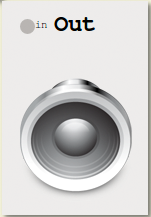
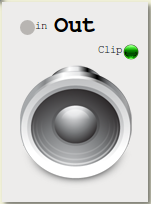
Changed the oscilloscope and speaker images, modified the description of these modules in manual.

diff --git a/doc/presentation/manuel/manuel.tex b/doc/presentation/manuel/manuel.tex
@@ -608,9 +608,8 @@ l'amplitude du signal.
 
 L'oscilloscope accepte des tensions allant du double de celles produites
 par un VCO, soit de −10V à 10V, vous permettant de visualiser des
-signaux de forte intensité.
-
-Le bouton \verb!Stabilize! permet, comme son nom l'indique, de
+signaux de forte intensité. De fines lignes horizontales indiquent le seuil
+des $-$5V/5V. Le bouton \verb!Stabilize! permet, comme son nom l'indique, de
 stabiliser visuellement le signal d'entrée. Par défaut, cette option est
 désactivée.
 \end{multicols}
@@ -670,10 +669,10 @@ relâchée.
 \end{figure}
 
 Ce module vous permet de diriger tout signal fourni en entrée vers la
-carte son afin d'entendre le résultat de votre montage.
-
-Notons qu'au plus un Speaker peut-être créé. Essayer d'en faire
-apparaître un deuxième est inopérant.
+carte son afin d'entendre le résultat de votre montage. Notons qu'au plus
+un Speaker peut-être créé. Une petite lumière notée \guillemotleft clip\guillemotright~
+indique si le signal reçu dépasse le seuil des -5V ou +5V, auquel cas il 
+sera tronqué.
 
 Nous vous mettons en garde contre certains dangers sonores~: produire
 des trop basses fréquences (inférieures à 30Hz) avec une forte intensité
